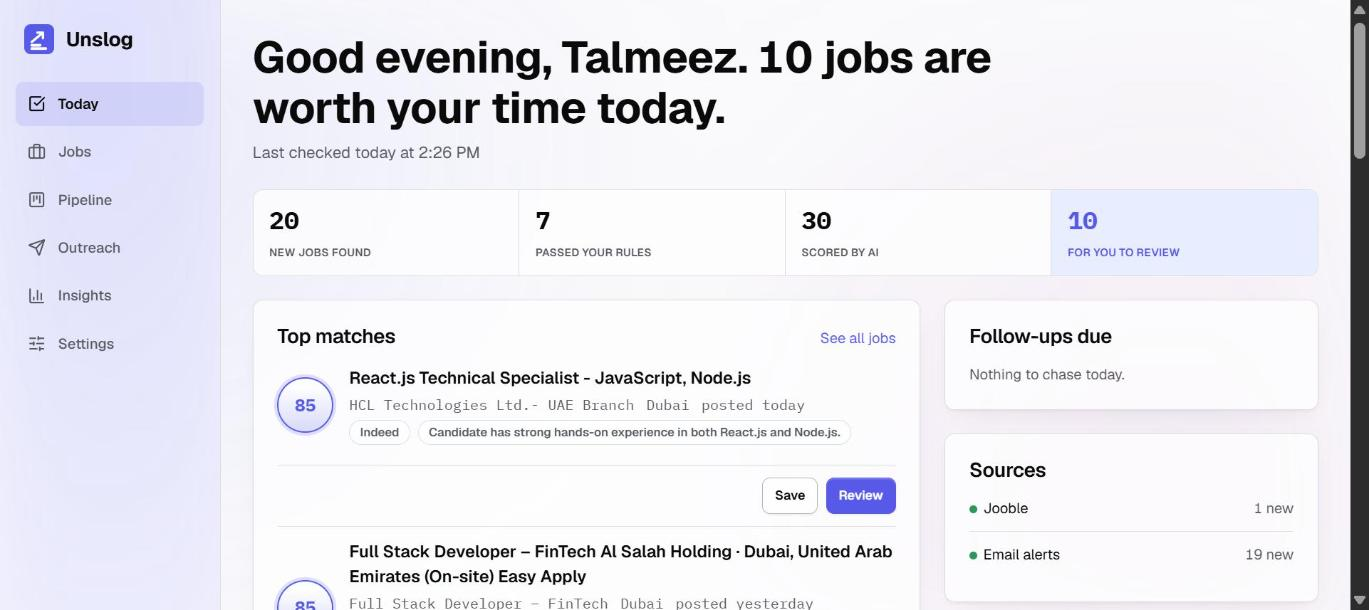
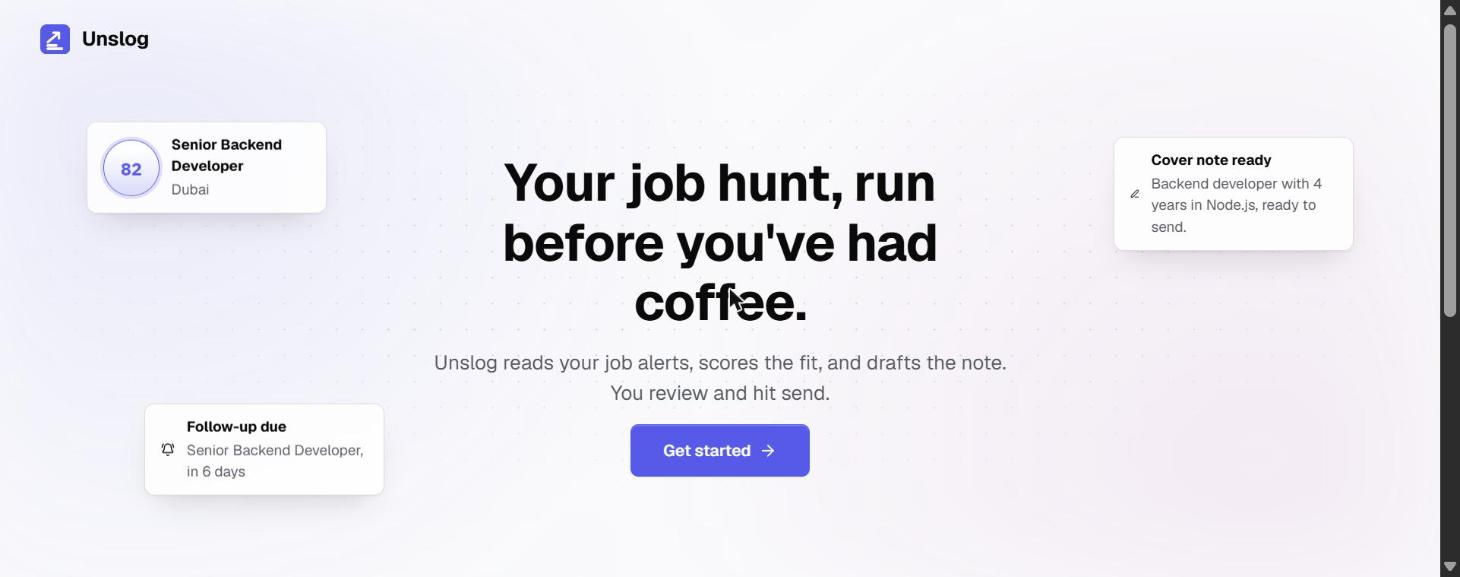
Move Unslog to top of project list, use welcome screen image
Drop the year from the title, reorder it as the newest project, and
swap the preview for the actual logged-out welcome screen (captured
locally) cropped to the top-left corner.

diff --git a/index.html b/index.html
@@ -258,6 +258,21 @@
 
       <article data-proj-card="" style="opacity: 0; transform: translateY(44px) scale(0.97); transition: opacity 0.4s cubic-bezier(0.2,0.75,0.2,1), transform 0.4s cubic-bezier(0.2,0.75,0.2,1), box-shadow 0.4s ease; background: rgba(255,252,248,0.88); backdrop-filter: blur(10px); border: 1px solid rgba(255,255,255,0.8); border-radius: 24px; overflow: hidden; box-shadow: 0 10px 24px rgba(30,60,100,0.1);">
         <div style="position: relative; width: 100%; aspect-ratio: 16 / 10; background: rgba(185,203,228,0.4);">
+          <image-slot id="proj-7" shape="rect" placeholder="Drop Unslog screenshot" src="assets/unslog-preview.jpg"></image-slot>
+        </div>
+        <div style="padding: clamp(18px, 2.2vw, 28px);">
+          <h3 style="margin: 0; font-size: clamp(18px, 1.9vw, 27px); font-weight: 700; letter-spacing: -0.05em; color: #16202b;">Unslog</h3>
+          <p style="margin: 10px 0 0; font-size: clamp(12px, 1.05vw, 15px); line-height: 1.65; letter-spacing: -0.03em; color: #3c4b5c; text-wrap: pretty;">An AI copilot that scores, ranks, and tracks job postings so you only review the ones worth your time.</p>
+          <div style="display: flex; flex-wrap: wrap; gap: 8px; margin: 16px 0 0;">
+            <span style="padding: 6px 11px; border-radius: 999px; background: rgba(215,95,56,0.1); font-size: 12px; font-weight: 600; color: #9e3d16;">Next.js</span>
+            <span style="padding: 6px 11px; border-radius: 999px; background: rgba(215,95,56,0.1); font-size: 12px; font-weight: 600; color: #9e3d16;">TypeScript</span>
+          </div>
+          <a href="https://unslog.vercel.app/" target="_blank" rel="noreferrer" style="display: inline-flex; align-items: center; gap: 9px; margin-top: 20px; padding: 12px 20px; border-radius: 999px; background: #d75f38; color: #fff; font-size: 14px; font-weight: 700; letter-spacing: -0.03em; box-shadow: 0 8px 20px rgba(120,50,25,0.28);" style-hover="background: #b94b28; color: #fff;">Visit project<span style="font-size: 15px;">↗</span></a>
+        </div>
+      </article>
+
+      <article data-proj-card="" style="opacity: 0; transform: translateY(44px) scale(0.97); transition: opacity 0.4s cubic-bezier(0.2,0.75,0.2,1), transform 0.4s cubic-bezier(0.2,0.75,0.2,1), box-shadow 0.4s ease; background: rgba(255,252,248,0.88); backdrop-filter: blur(10px); border: 1px solid rgba(255,255,255,0.8); border-radius: 24px; overflow: hidden; box-shadow: 0 10px 24px rgba(30,60,100,0.1);">
+        <div style="position: relative; width: 100%; aspect-ratio: 16 / 10; background: rgba(185,203,228,0.4);">
           <image-slot id="proj-1" shape="rect" placeholder="Drop Bunakar screenshot" src="assets/bunakar-preview.webp"></image-slot>
         </div>
         <div style="padding: clamp(18px, 2.2vw, 28px);">
@@ -327,21 +342,6 @@
             <span style="padding: 6px 11px; border-radius: 999px; background: rgba(215,95,56,0.1); font-size: 12px; font-weight: 600; color: #9e3d16;">CSS</span>
           </div>
           <a href="https://talmeezakhtar.github.io/Catify/" target="_blank" rel="noreferrer" style="display: inline-flex; align-items: center; gap: 9px; margin-top: 20px; padding: 12px 20px; border-radius: 999px; background: #d75f38; color: #fff; font-size: 14px; font-weight: 700; letter-spacing: -0.03em; box-shadow: 0 8px 20px rgba(120,50,25,0.28);" style-hover="background: #b94b28; color: #fff;">Visit project<span style="font-size: 15px;">↗</span></a>
-        </div>
-      </article>
-
-      <article data-proj-card="" style="opacity: 0; transform: translateY(44px) scale(0.97); transition: opacity 0.4s cubic-bezier(0.2,0.75,0.2,1), transform 0.4s cubic-bezier(0.2,0.75,0.2,1), box-shadow 0.4s ease; background: rgba(255,252,248,0.88); backdrop-filter: blur(10px); border: 1px solid rgba(255,255,255,0.8); border-radius: 24px; overflow: hidden; box-shadow: 0 10px 24px rgba(30,60,100,0.1);">
-        <div style="position: relative; width: 100%; aspect-ratio: 16 / 10; background: rgba(185,203,228,0.4);">
-          <image-slot id="proj-7" shape="rect" placeholder="Drop Unslog screenshot" src="assets/unslog-preview.jpg"></image-slot>
-        </div>
-        <div style="padding: clamp(18px, 2.2vw, 28px);">
-          <h3 style="margin: 0; font-size: clamp(18px, 1.9vw, 27px); font-weight: 700; letter-spacing: -0.05em; color: #16202b;">Unslog - 2026</h3>
-          <p style="margin: 10px 0 0; font-size: clamp(12px, 1.05vw, 15px); line-height: 1.65; letter-spacing: -0.03em; color: #3c4b5c; text-wrap: pretty;">An AI copilot that scores, ranks, and tracks job postings so you only review the ones worth your time.</p>
-          <div style="display: flex; flex-wrap: wrap; gap: 8px; margin: 16px 0 0;">
-            <span style="padding: 6px 11px; border-radius: 999px; background: rgba(215,95,56,0.1); font-size: 12px; font-weight: 600; color: #9e3d16;">Next.js</span>
-            <span style="padding: 6px 11px; border-radius: 999px; background: rgba(215,95,56,0.1); font-size: 12px; font-weight: 600; color: #9e3d16;">TypeScript</span>
-          </div>
-          <a href="https://unslog.vercel.app/" target="_blank" rel="noreferrer" style="display: inline-flex; align-items: center; gap: 9px; margin-top: 20px; padding: 12px 20px; border-radius: 999px; background: #d75f38; color: #fff; font-size: 14px; font-weight: 700; letter-spacing: -0.03em; box-shadow: 0 8px 20px rgba(120,50,25,0.28);" style-hover="background: #b94b28; color: #fff;">Visit project<span style="font-size: 15px;">↗</span></a>
         </div>
       </article>
 
